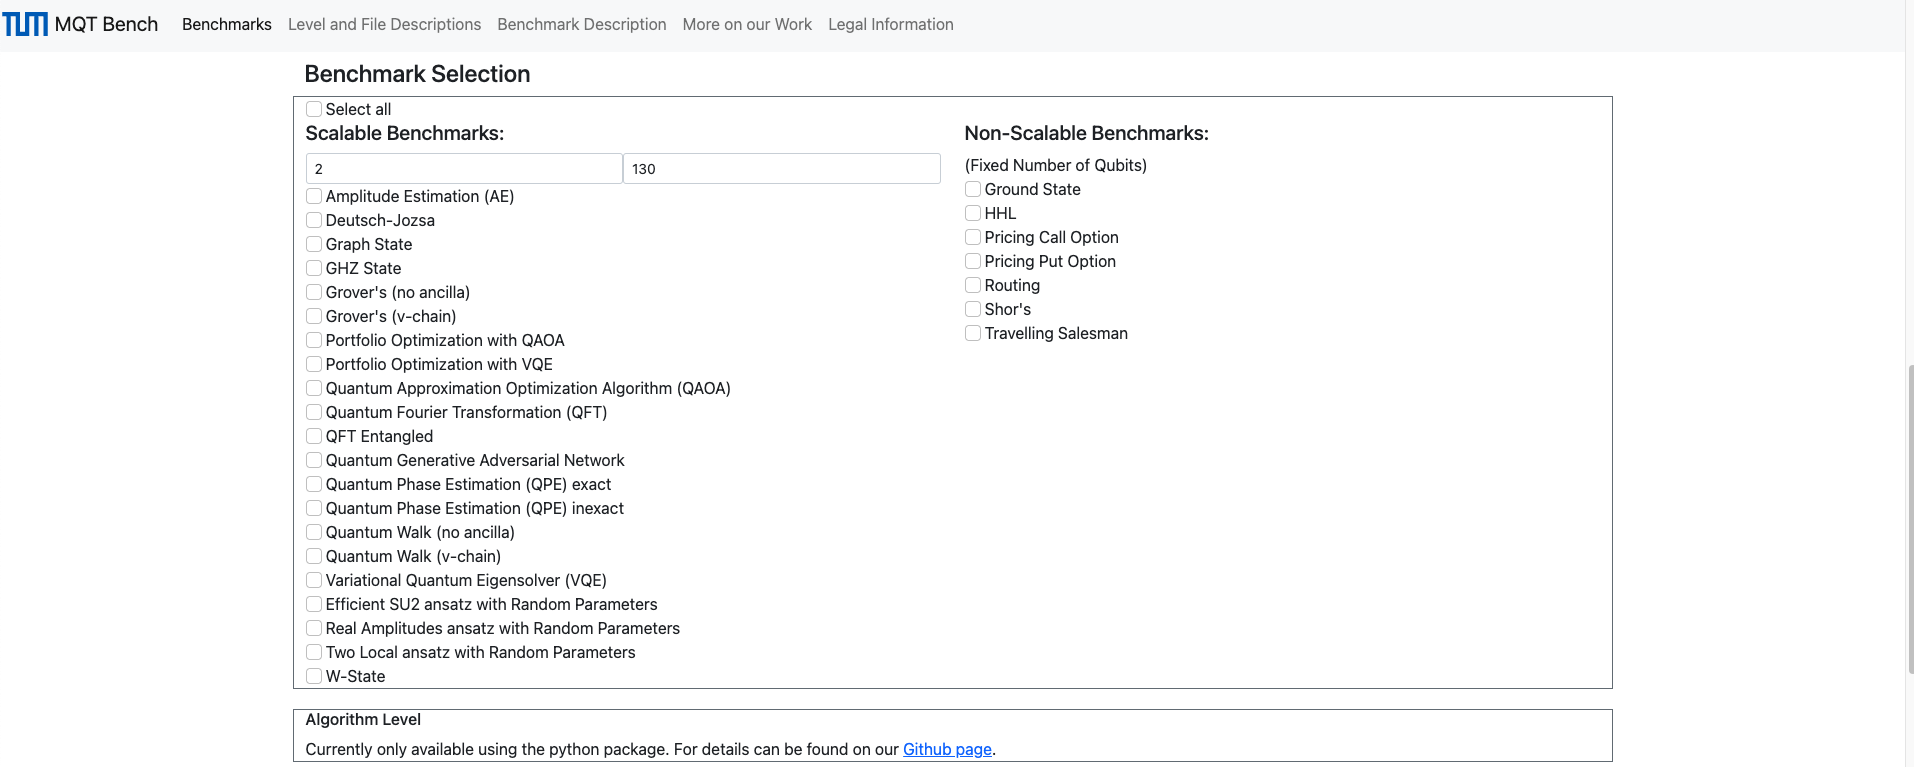
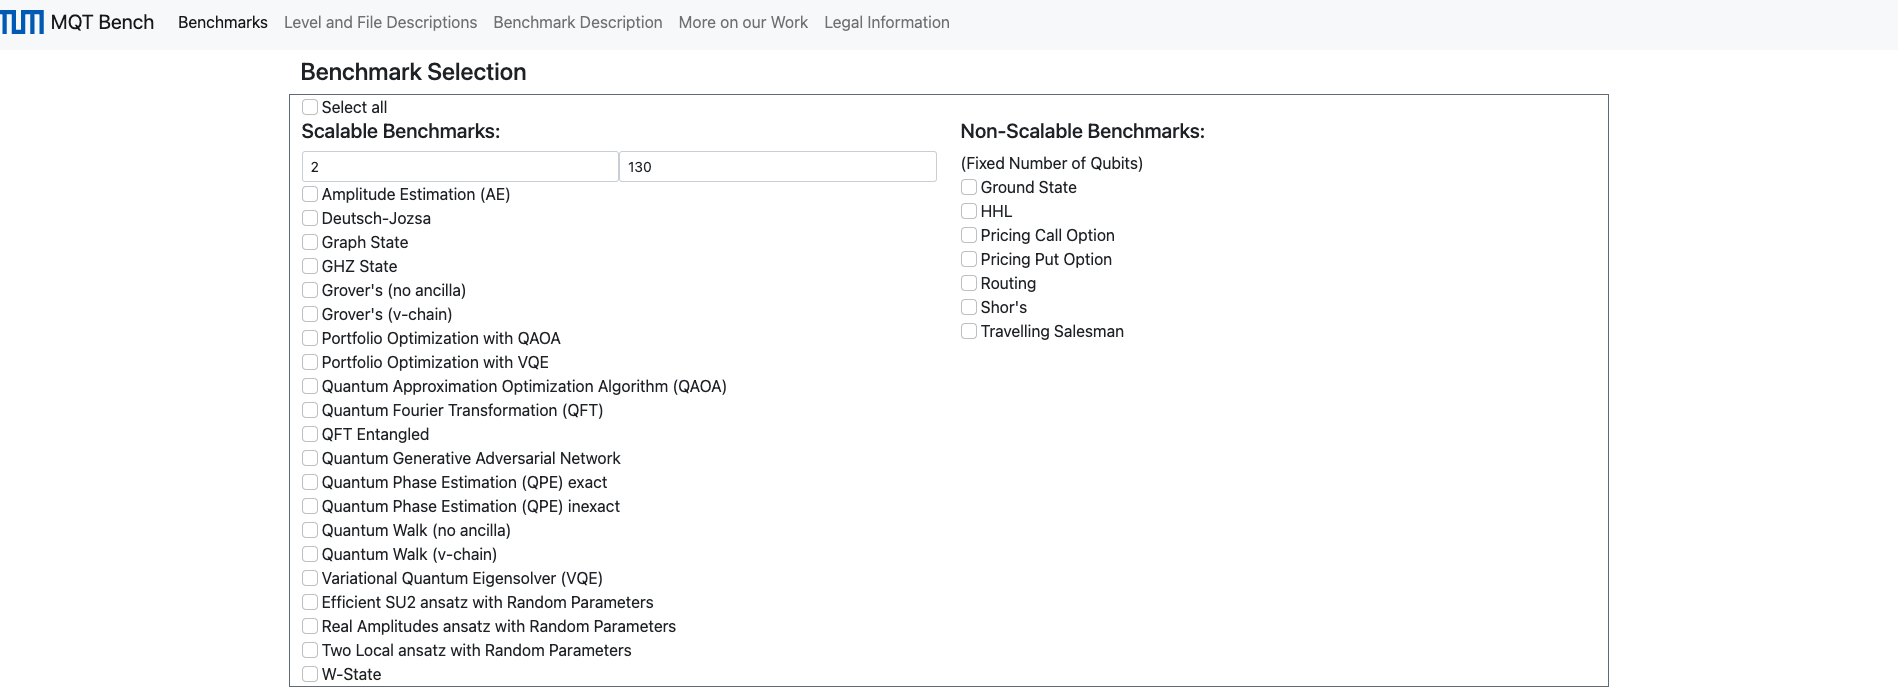
💡 updated screenshot of webpage and broken link in Readme

diff --git a/README.md b/README.md
@@ -252,7 +252,7 @@ from mqt.benchviewer import start_server
 start_server()
 ```
 
-More details on how to use the local webserver can be found in the [respective README.md file](benchviewer/README.md).
+More details on how to use the local webserver can be found in the [respective README.md file](mqt/benchviewer/README.md).
 
 ## Usage directly via this repository
 For that, the repository must be cloned and installed:
